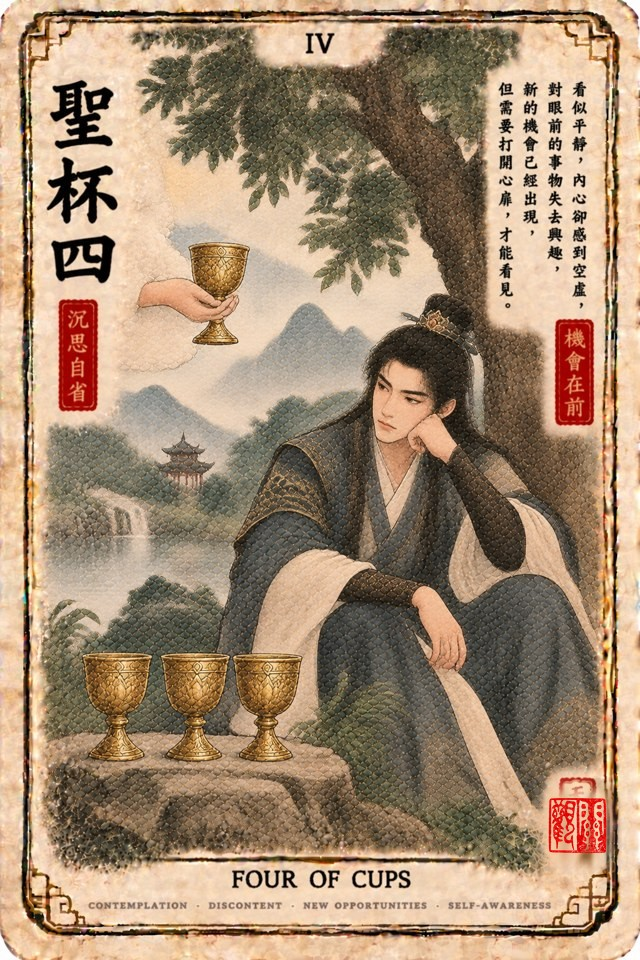
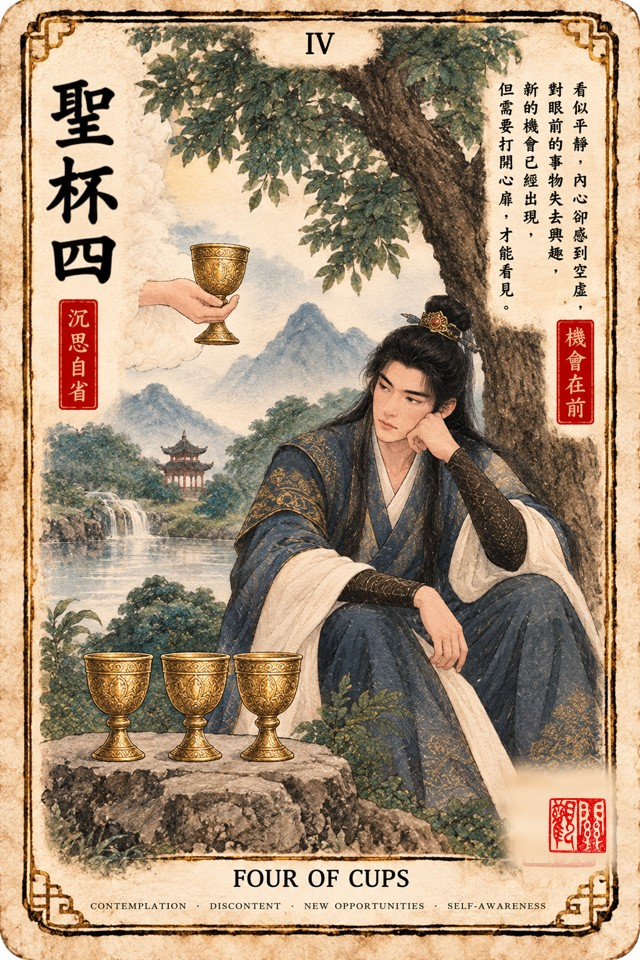
翻牌：圣杯四/八/九/十高清入库；新增 tarot-ingest 脚本自动换印
Claude-Session: https://claude.ai/code/session_01TaA8jH2WiLYSViChaBLURX

diff --git a/scripts/tarot-ingest.py b/scripts/tarot-ingest.py
@@ -1,0 +1,13 @@
+# usage: python3 scripts/tarot-ingest.py src.png name  -> resizes to 640x960, erases AI seal, stamps real seal
+import sys
+from PIL import Image, ImageFilter, ImageDraw
+src,name=sys.argv[1],sys.argv[2]
+seal=Image.open('public/tarot/seal.png').convert('RGBA').resize((70,70),Image.LANCZOS)
+im=Image.open(src).convert('RGB'); im.thumbnail((640,960))
+W,H=136,124; x0,y0=494,756
+mask=Image.new('L',(W,H),0); ImageDraw.Draw(mask).rounded_rectangle((10,10,W-10,H-10),8,fill=255)
+mask=mask.filter(ImageFilter.GaussianBlur(7))
+samp=im.crop((616,600,634,880)).resize((W,H),Image.BILINEAR).filter(ImageFilter.GaussianBlur(4))
+im.paste(samp,(x0,y0),mask)
+im=im.convert('RGBA'); im.alpha_composite(seal,(542,790))
+im.convert('RGB').save(f'public/tarot/{name}.jpg',quality=90)
